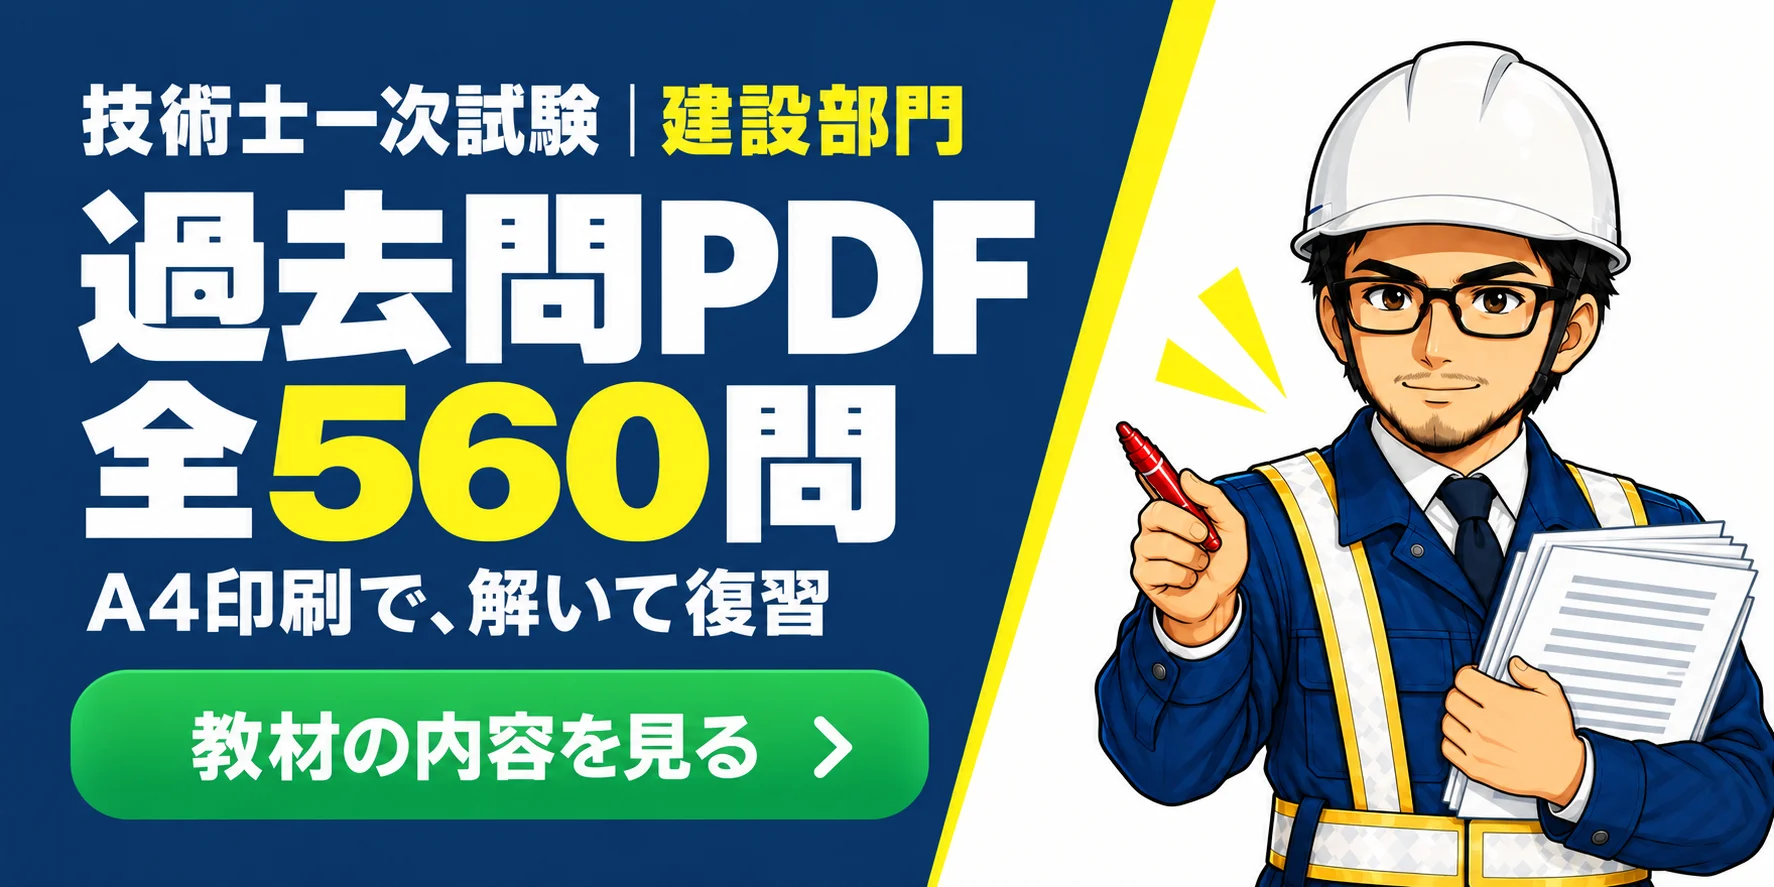
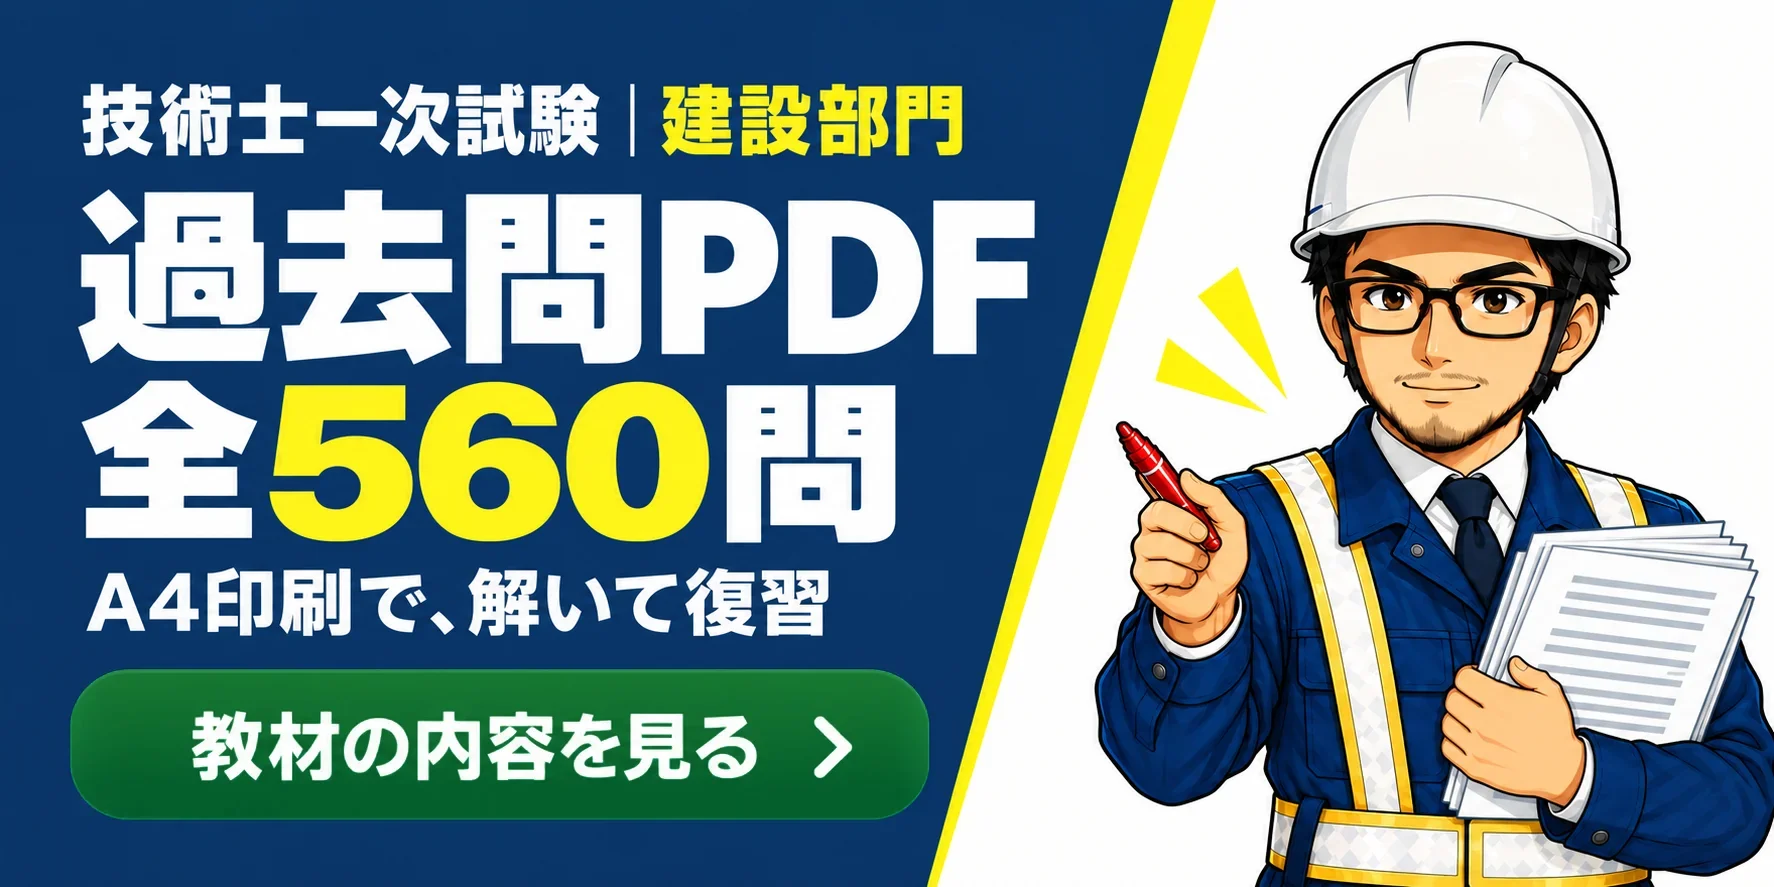
fix(pe-first-stage): 一次 PDF の本文用 CTA 画像のボタンを濃い緑にし、白文字のコントラストを 4.5:1 以上へ（DN-0513）
ボタン領域の緑みの強い画素だけを緑の度合いに応じて最大 0.6 倍に暗くした決定的な補正（構図・人物・
コピー・比率は不変）。旧版 2.22〜3.59:1 → ボタン画素の 95% が 4.96:1 以上（中央値 6.65:1）。
pop-image.json の body を新版の SHA・サイズ・?v= に更新し、補正内容と旧版の記録を edits に残す。

Changed region(s): [[0.031, 0.7306, 0.5271, 0.9436]]

diff --git a/.claude/todo/backlog.md b/.claude/todo/backlog.md
@@ -265,7 +265,7 @@
 **完了条件**: 4 科目の一覧（または一覧節）が公開され、`npm run refresh-indexes` が通る。公開 4 週間後に GSC・Bing で科目名付きクエリの表示とクリックを記録する。
 
 ### [DN-0513] 一次PDFのCTA画像のボタン文字のコントラストを改善する
-タグ: [コンテンツ品質] [領域:サイト] [時期:2026-10..2026-11] [種類:不具合] [起票:2026-10-02]
+タグ: [コンテンツ品質] [領域:サイト] [時期:2026-10..2026-11] [種類:不具合] [起票:2026-10-02] [進行中]
 
 **起点**: PR #836の視覚監査で、生成済み本文用画像 `content/site/pe-first-stage/_shared/img/cta-pdf-body.webp` の緑ボタン上の白文字が背景と約2.65〜3.42:1、375px表示では通常文字サイズとなりAA基準の4.5:1を下回った。画像をそのまま採用する運営者指示に従って原画像を保ち、今回はaltとfocus表示を維持した。
 
